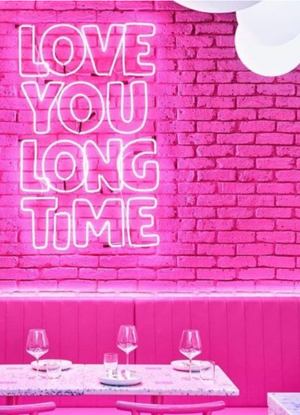
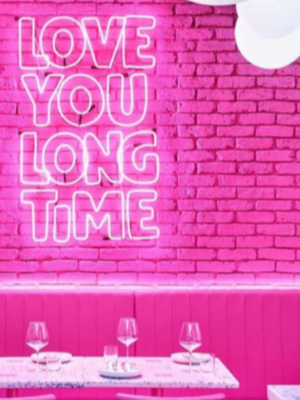
new picture

diff --git a/chamber/js/windchill.js b/chamber/js/windchill.js
@@ -1,6 +1,6 @@
 
 function setwindchill(temp, windspeed) {
-    let tempobj = document.querySelector("#temprature");
+    let tempobj = document.querySelector("#temperature");
     let windspeedobj = document.querySelector("#windspeed");
     let windchillobj = document.querySelector("#windchill");
 

diff --git a/lesson7/css/main.css b/lesson7/css/main.css
@@ -1,0 +1,4 @@
+img{
+    width: 300px;
+    display: block;
+}
